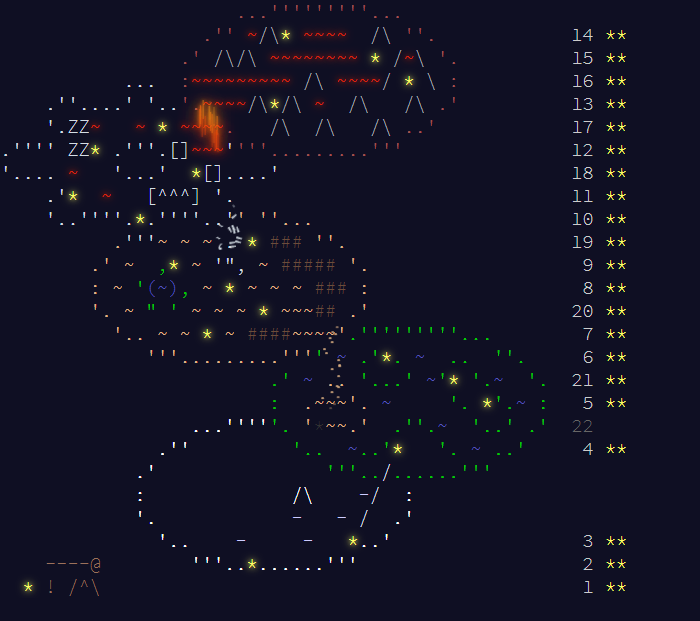
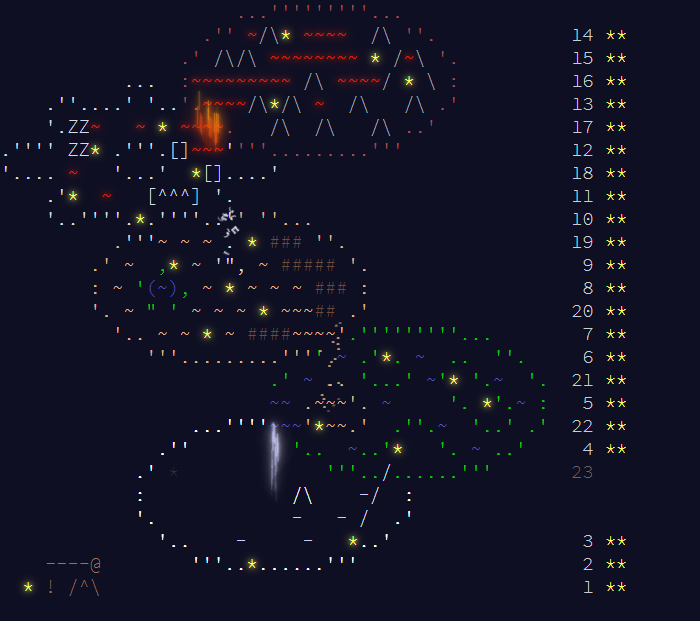
Day 22

diff --git a/2023/main_page/aoc/index_22.html b/2023/main_page/aoc/index_22.html
@@ -1,0 +1,178 @@
+<!DOCTYPE html>
+<html lang="en-us">
+<head>
+<meta charset="utf-8"/>
+<title>Advent of Code 2023</title>
+<!--[if lt IE 9]><script src="html5.js"></script><![endif]-->
+<link href='SourceCodePro.css' rel='stylesheet' type='text/css'>
+<link rel="stylesheet" type="text/css" href="style.css"/>
+<link rel="stylesheet alternate" type="text/css" href="highcontrast.css?0" title="High Contrast"/>
+<link rel="shortcut icon" href="favicon.png"/>
+</head><body>
+<main>
+<style>
+.calendar .calendar-color-k { color:#6b4d3b; }
+.calendar .calendar-color-g { color:#00cc00; }
+.calendar .calendar-color-v { color:#df2308; text-shadow:0 0 5px #df2308, 0 0 10px #df2308; }
+.calendar .calendar-color-w { color:#ffffff; }
+.calendar .islefall {
+  position: relative;
+}
+.calendar .islefall > span {
+  position: absolute;
+  animation: anim-calendar-islefall 3s linear infinite;
+  display: inline-block;
+  color: #ccccff;
+  text-shadow: 0 0 3px #ccccff, 0 0 5px #ccccff, 0 0 10px #ffffff, 0 0 15px #ffffff;
+  pointer-events: none;
+}
+@keyframes anim-calendar-islefall {
+    0% { transform: translateY(0);   opacity:0.0; }
+   10% {                             opacity:0.8; }
+  100% { transform: translateY(6ch); opacity:0.0; }
+}
+
+.calendar .gearfall {
+  position: relative;
+}
+.calendar .gearfall > span {
+  position: absolute;
+  animation: anim-calendar-gearfall-b 3s linear infinite;
+  display: inline-block;
+  color: #d4dde4;
+  pointer-events: none;
+}
+.calendar .gearfall > span.gearfall-whozit, .calendar .gearfall > span.gearfall-whatzit, .calendar .gearfall > span.gearfall-thingamabob {
+  animation-name: anim-calendar-gearfall-t;
+}
+@keyframes anim-calendar-gearfall-b {
+    0% { transform: translateY(0)   rotate(0)     translateY(-.5ch); opacity:0.0; }
+   20% {                                                             opacity:1.0; }
+   80% {                                                             opacity:1.0; }
+  100% { transform: translateY(4ch) rotate(2turn) translateY(-.5ch); opacity:0.0; }
+}
+@keyframes anim-calendar-gearfall-t {
+    0% { transform: translateY(0)   rotate(0)     translateY(.5ch); opacity:0.0; }
+   10% {                                                            opacity:1.0; }
+   90% {                                                            opacity:1.0; }
+  100% { transform: translateY(4ch) rotate(2turn) translateY(.5ch); opacity:0.0; }
+}
+
+.calendar .calendar-color-y { color:#ffff66; text-shadow:0 0 5px #ffff66, 0 0 10px #ffff66; }
+.calendar .calendar-color-b { color:#5555bb; }
+.calendar .sandfall {
+  position: relative;
+}
+.calendar .sandfall > span {
+  position: absolute;
+  animation: anim-calendar-sandfall 3s linear infinite;
+  display: inline-block;
+  color: #e3b585;
+  pointer-events: none;
+}
+@keyframes anim-calendar-sandfall {
+    0% { transform: translateY(0);     opacity:0.0; }
+   10% {                               opacity:0.8; }
+   90% {                               opacity:0.8; }
+  100% { transform: translateY(7.5ch); opacity:0.0; }
+}
+
+.calendar .calendar-color-m { color:#d4dde4; }
+.calendar .calendar-color-s { color:#e3b585; }
+.calendar .calendar-color-i { color:#a25151; }
+.calendar .lavafall {
+  position: relative;
+}
+.calendar .lavafall > span {
+  position: absolute;
+  animation: anim-calendar-lavafall 3s linear infinite;
+  display: inline-block;
+  pointer-events: none;
+}
+@keyframes anim-calendar-lavafall {
+    0% { transform: translateY(0);   opacity:0.0; color:#faa718; text-shadow: 0 0 3px #faa718, 0 0 5px #faa718, 0 0 10px #faa718, 0 0 15px #faa718, 0 0 20px #faa718; }
+   20% {                             opacity:0.8; }
+   80% {                             opacity:0.8; }
+  100% { transform: translateY(3ch); opacity:0.0; color:#df2308; text-shadow: 0 0 3px #df2308, 0 0 5px #df2308, 0 0 10px #df2308, 0 0 15px #df2308, 0 0 20px #df2308; }
+}
+
+.calendar .calendar-color-l { color:#ccccff; }
+.calendar .calendar-color-n { color:#9b715b; }
+.calendar .calendar-color-a { color:#a5a8af; }
+</style>
+<pre class="calendar"><a aria-label="Day 14, two stars" href="day_14.html" class="calendar-day14 calendar-verycomplete">                     <span class="calendar-color-i">...'''''''''...</span>                    
+                  <span class="calendar-color-i">.''</span> <span class="calendar-color-v">~</span><span class="calendar-color-a">/\</span><span class="calendar-color-y">*</span> <span class="calendar-color-v">~~~~</span>  <span class="calendar-color-a">/\</span> <span class="calendar-color-i">''.</span>            <span class="calendar-day">14</span> <span class="calendar-mark-complete">*</span><span class="calendar-mark-verycomplete">*</span></a>
+<a aria-label="Day 15, two stars" href="day_15.html" class="calendar-day15 calendar-verycomplete">                <span class="calendar-color-i">.'</span> <span class="calendar-color-a">/\/\</span> <span class="calendar-color-v">~~~~~~~~</span> <span class="calendar-color-y">*</span> <span class="calendar-color-a">/</span><span class="calendar-color-v">~</span><span class="calendar-color-a">\</span> <span class="calendar-color-i">'.</span>          <span class="calendar-day">15</span> <span class="calendar-mark-complete">*</span><span class="calendar-mark-verycomplete">*</span></a>
+<a aria-label="Day 16, two stars" href="day_16.html" class="calendar-day16 calendar-verycomplete">           <span class="calendar-color-m">...</span>  <span class="calendar-color-i">:</span><span class="calendar-color-v">~~~~~~~~~</span> <span class="calendar-color-a">/\</span> <span class="calendar-color-v">~~~~</span><span class="calendar-color-a">/</span> <span class="calendar-color-y">*</span> <span class="calendar-color-a">\</span> <span class="calendar-color-i">:</span>          <span class="calendar-day">16</span> <span class="calendar-mark-complete">*</span><span class="calendar-mark-verycomplete">*</span></a>
+<a aria-label="Day 13, two stars" href="day_13.html" class="calendar-day13 calendar-verycomplete">    <span class="calendar-color-m">.''....'</span> <span class="calendar-color-m">'..</span><span class="calendar-color-i">'.<span class="lavafall" style=""><span style="left:2.4px;top:2.4px;animation-delay:-1.47s">|</span><span style="left:-5.7px;top:-5.7px;animation-delay:-2.08s">|</span><span style="left:3.7px;top:3.7px;animation-delay:-1.57s">|</span><span style="left:9.1px;top:9.1px;animation-delay:-0.43s">|</span><span style="left:8.1px;top:8.1px;animation-delay:-1.41s">|</span><span style="left:10.0px;top:10.0px;animation-delay:-2.88s">|</span><span style="left:0.8px;top:0.8px;animation-delay:-0.79s">|</span><span style="left:10.8px;top:10.8px;animation-delay:-0.45s">|</span><span style="left:8.5px;top:8.5px;animation-delay:-2.31s">|</span><span style="left:-8.2px;top:-8.2px;animation-delay:-0.13s">|</span><span style="left:1.1px;top:1.1px;animation-delay:-0.09s">|</span><span style="left:7.2px;top:7.2px;animation-delay:-0.61s">|</span><span style="left:-0.9px;top:-0.9px;animation-delay:-2.53s">|</span><span style="left:-3.6px;top:-3.6px;animation-delay:-2.48s">|</span><span style="left:-9.8px;top:-9.8px;animation-delay:-1.56s">|</span><span style="left:2.6px;top:2.6px;animation-delay:-2.45s">|</span><span style="left:1.1px;top:1.1px;animation-delay:-0.05s">|</span><span style="left:-6.8px;top:-6.8px;animation-delay:-1.92s">|</span><span style="left:9.1px;top:9.1px;animation-delay:-1.42s">|</span><span style="left:8.1px;top:8.1px;animation-delay:-1.73s">|</span></span></span><span class="calendar-color-v">~~~~</span><span class="calendar-color-a">/\</span><span class="calendar-color-y">*</span><span class="calendar-color-a">/\</span> <span class="calendar-color-v">~</span>  <span class="calendar-color-a">/\</span>   <span class="calendar-color-a">/\</span> <span class="calendar-color-i">.'</span>          <span class="calendar-day">13</span> <span class="calendar-mark-complete">*</span><span class="calendar-mark-verycomplete">*</span></a>
+<a aria-label="Day 17, two stars" href="day_17.html" class="calendar-day17 calendar-verycomplete">    <span class="calendar-color-m">'.ZZ</span><span class="calendar-color-v">~</span>   <span class="calendar-color-v">~</span> <span class="calendar-color-y">*</span> <span class="calendar-color-v">~~~~</span><span class="calendar-color-i">.</span>   <span class="calendar-color-a">/\</span>  <span class="calendar-color-a">/\</span>   <span class="calendar-color-a">/\</span> <span class="calendar-color-i">..'</span>            <span class="calendar-day">17</span> <span class="calendar-mark-complete">*</span><span class="calendar-mark-verycomplete">*</span></a>
+<a aria-label="Day 12, two stars" href="day_12.html" class="calendar-day12 calendar-verycomplete"><span class="calendar-color-m">.''''</span> <span class="calendar-color-m">ZZ</span><span class="calendar-color-y">*</span> <span class="calendar-color-m">.'''.[]</span><span class="calendar-color-v">~~~</span><span class="calendar-color-m">'</span><span class="calendar-color-i">'''.........'''</span>               <span class="calendar-day">12</span> <span class="calendar-mark-complete">*</span><span class="calendar-mark-verycomplete">*</span></a>
+<a aria-label="Day 18, two stars" href="day_18.html" class="calendar-day18 calendar-verycomplete"><span class="calendar-color-m">'....</span> <span class="calendar-color-v">~</span>   <span class="calendar-color-m">'...'</span>  <span class="calendar-color-y">*</span><span class="calendar-color-m">[]....'</span>                          <span class="calendar-day">18</span> <span class="calendar-mark-complete">*</span><span class="calendar-mark-verycomplete">*</span></a>
+<a aria-label="Day 11, two stars" href="day_11.html" class="calendar-day11 calendar-verycomplete">    <span class="calendar-color-m">.'</span><span class="calendar-color-y">*</span>  <span class="calendar-color-v">~</span>   <span class="calendar-color-m">[^^^]</span> <span class="calendar-color-m">'.</span>                              <span class="calendar-day">11</span> <span class="calendar-mark-complete">*</span><span class="calendar-mark-verycomplete">*</span></a>
+<a aria-label="Day 10, two stars" href="day_10.html" class="calendar-day10 calendar-verycomplete">    <span class="calendar-color-m">'..''''.</span><span class="calendar-color-y">*</span><span class="calendar-color-m">.''''.<span class="gearfall" style=""><span class="gearfall-gizmo" style="left:4.2px;top:-4.2px;animation-delay:-0.13s">,</span><span class="gearfall-gizmo" style="left:13.0px;top:-13.0px;animation-delay:-0.65s">,</span><span class="gearfall-thingamabob" style="left:17.1px;top:-17.1px;animation-delay:-1.47s">'</span><span class="gearfall-thingamabob" style="left:6.3px;top:-6.3px;animation-delay:-2.49s">'</span><span class="gearfall-thingamabob" style="left:7.8px;top:-7.8px;animation-delay:-3.00s">'</span><span class="gearfall-gizmo" style="left:14.7px;top:-14.7px;animation-delay:-0.28s">,</span><span class="gearfall-whatzit" style="left:7.8px;top:-7.8px;animation-delay:-0.22s">&quot;</span><span class="gearfall-gizmo" style="left:8.9px;top:-8.9px;animation-delay:-1.34s">,</span><span class="gearfall-whatzit" style="left:17.9px;top:-17.9px;animation-delay:-1.83s">&quot;</span><span class="gearfall-whozit" style="left:10.7px;top:-10.7px;animation-delay:-1.31s">`</span></span>.'</span><span class="calendar-color-s">'</span> <span class="calendar-color-s">''...</span>                       <span class="calendar-day">10</span> <span class="calendar-mark-complete">*</span><span class="calendar-mark-verycomplete">*</span></a>
+<a aria-label="Day 19, two stars" href="day_19.html" class="calendar-day19 calendar-verycomplete">          <span class="calendar-color-s">.</span><span class="calendar-color-m">'''</span><span class="calendar-color-s">~</span> <span class="calendar-color-s">~</span> <span class="calendar-color-s">~</span> <span class="calendar-color-m">.</span> <span class="calendar-color-y">*</span> <span class="calendar-color-k">###</span> <span class="calendar-color-s">''.</span>                    <span class="calendar-day">19</span> <span class="calendar-mark-complete">*</span><span class="calendar-mark-verycomplete">*</span></a>
+<a aria-label="Day 9, two stars" href="day_09.html" class="calendar-day9 calendar-verycomplete">        <span class="calendar-color-s">.'</span> <span class="calendar-color-s">~</span>  <span class="calendar-color-g">,</span><span class="calendar-color-y">*</span> <span class="calendar-color-s">~</span> <span class="calendar-color-m">'&quot;,</span> <span class="calendar-color-s">~</span> <span class="calendar-color-k">#####</span> <span class="calendar-color-s">'.</span>                  <span class="calendar-day"> 9</span> <span class="calendar-mark-complete">*</span><span class="calendar-mark-verycomplete">*</span></a>
+<a aria-label="Day 8, two stars" href="day_08.html" class="calendar-day8 calendar-verycomplete">        <span class="calendar-color-s">:</span> <span class="calendar-color-s">~</span> <span class="calendar-color-g">'</span><span class="calendar-color-b">(~)</span><span class="calendar-color-g">,</span> <span class="calendar-color-s">~</span> <span class="calendar-color-y">*</span> <span class="calendar-color-s">~</span> <span class="calendar-color-s">~</span> <span class="calendar-color-s">~</span> <span class="calendar-color-k">###</span> <span class="calendar-color-s">:</span>                  <span class="calendar-day"> 8</span> <span class="calendar-mark-complete">*</span><span class="calendar-mark-verycomplete">*</span></a>
+<a aria-label="Day 20, two stars" href="day_20.html" class="calendar-day20 calendar-verycomplete">        <span class="calendar-color-s">'.</span> <span class="calendar-color-s">~</span> <span class="calendar-color-g">&quot;</span> <span class="calendar-color-g">'</span> <span class="calendar-color-s">~</span> <span class="calendar-color-s">~</span> <span class="calendar-color-s">~</span> <span class="calendar-color-y">*</span> <span class="calendar-color-s">~~~</span><span class="calendar-color-k">##</span> <span class="calendar-color-s">.'</span>                  <span class="calendar-day">20</span> <span class="calendar-mark-complete">*</span><span class="calendar-mark-verycomplete">*</span></a>
+<a aria-label="Day 7, two stars" href="day_07.html" class="calendar-day7 calendar-verycomplete">          <span class="calendar-color-s">'..</span> <span class="calendar-color-s">~</span> <span class="calendar-color-s">~</span> <span class="calendar-color-y">*</span> <span class="calendar-color-s">~</span> <span class="calendar-color-k">####</span><span class="calendar-color-s">~~<span class="sandfall" style=""><span style="left:14.2px;top:-14.2px;animation-delay:-2.68s">.</span><span style="left:18.6px;top:-18.6px;animation-delay:-0.61s">.</span><span style="left:9.1px;top:-9.1px;animation-delay:-2.63s">.</span><span style="left:17.0px;top:-17.0px;animation-delay:-2.91s">.</span><span style="left:4.7px;top:-4.7px;animation-delay:-2.08s">.</span><span style="left:13.8px;top:-13.8px;animation-delay:-0.37s">.</span><span style="left:12.2px;top:-12.2px;animation-delay:-1.04s">.</span><span style="left:9.9px;top:-9.9px;animation-delay:-1.74s">.</span><span style="left:14.7px;top:-14.7px;animation-delay:-2.63s">.</span><span style="left:18.9px;top:-18.9px;animation-delay:-0.38s">.</span><span style="left:1.1px;top:-1.1px;animation-delay:-0.20s">.</span><span style="left:15.8px;top:-15.8px;animation-delay:-1.04s">.</span><span style="left:5.2px;top:-5.2px;animation-delay:-2.39s">.</span><span style="left:10.1px;top:-10.1px;animation-delay:-1.08s">.</span><span style="left:19.4px;top:-19.4px;animation-delay:-2.60s">.</span><span style="left:21.0px;top:-21.0px;animation-delay:-2.93s">.</span><span style="left:19.3px;top:-19.3px;animation-delay:-2.04s">.</span><span style="left:17.1px;top:-17.1px;animation-delay:-2.86s">.</span><span style="left:19.5px;top:-19.5px;animation-delay:-0.83s">.</span><span style="left:2.9px;top:-2.9px;animation-delay:-1.85s">.</span></span>~~'</span><span class="calendar-color-g">.'''''''''...</span>       <span class="calendar-day"> 7</span> <span class="calendar-mark-complete">*</span><span class="calendar-mark-verycomplete">*</span></a>
+<a aria-label="Day 6, two stars" href="day_06.html" class="calendar-day6 calendar-verycomplete">             <span class="calendar-color-s">'''.........'''</span><span class="calendar-color-g">'</span> <span class="calendar-color-b">~</span> <span class="calendar-color-g">.'</span><span class="calendar-color-y">*</span><span class="calendar-color-g">.</span> <span class="calendar-color-b">~</span>  <span class="calendar-color-g">..</span>  <span class="calendar-color-g">''.</span>    <span class="calendar-day"> 6</span> <span class="calendar-mark-complete">*</span><span class="calendar-mark-verycomplete">*</span></a>
+<a aria-label="Day 21, two stars" href="day_21.html" class="calendar-day21 calendar-verycomplete">                        <span class="calendar-color-g">.'</span> <span class="calendar-color-b">~</span> <span class="calendar-color-s">..</span> <span class="calendar-color-g">'...'</span> <span class="calendar-color-b">~</span><span class="calendar-color-g">'</span><span class="calendar-color-y">*</span> <span class="calendar-color-g">'.</span><span class="calendar-color-b">~</span>  <span class="calendar-color-g">'.</span>  <span class="calendar-day">21</span> <span class="calendar-mark-complete">*</span><span class="calendar-mark-verycomplete">*</span></a>
+<a aria-label="Day 5, two stars" href="day_05.html" class="calendar-day5 calendar-verycomplete">                        <span class="calendar-color-b">~~</span> <span class="calendar-color-s">.~~~'.</span> <span class="calendar-color-b">~</span>     <span class="calendar-color-g">'.</span> <span class="calendar-color-y">*</span><span class="calendar-color-g">'.</span><span class="calendar-color-b">~</span> <span class="calendar-color-g">:</span>  <span class="calendar-day"> 5</span> <span class="calendar-mark-complete">*</span><span class="calendar-mark-verycomplete">*</span></a>
+<a aria-label="Day 22, two stars" href="day_22.html" class="calendar-day22 calendar-verycomplete">                 <span class="calendar-color-w">...''''<span class="islefall" style=""><span style="left:-0.0px;top:-1.9px;animation-delay:-0.15s">|</span><span style="left:-1.6px;top:1.3px;animation-delay:-0.30s">|</span><span style="left:3.1px;top:-0.1px;animation-delay:-0.45s">|</span><span style="left:1.4px;top:0.9px;animation-delay:-0.60s">|</span><span style="left:2.5px;top:-2.5px;animation-delay:-0.75s">|</span><span style="left:3.9px;top:-1.0px;animation-delay:-0.90s">|</span><span style="left:0.9px;top:-0.8px;animation-delay:-1.05s">|</span><span style="left:-2.4px;top:-0.5px;animation-delay:-1.20s">|</span><span style="left:2.0px;top:-1.1px;animation-delay:-1.35s">|</span><span style="left:1.1px;top:-0.2px;animation-delay:-1.50s">|</span><span style="left:-2.0px;top:-0.9px;animation-delay:-1.65s">|</span><span style="left:-2.5px;top:2.3px;animation-delay:-1.80s">|</span><span style="left:-2.7px;top:3.0px;animation-delay:-1.95s">|</span><span style="left:1.3px;top:-0.3px;animation-delay:-2.10s">|</span><span style="left:0.6px;top:-0.7px;animation-delay:-2.25s">|</span><span style="left:1.9px;top:4.0px;animation-delay:-2.40s">|</span><span style="left:-2.9px;top:-2.4px;animation-delay:-2.55s">|</span><span style="left:2.2px;top:0.6px;animation-delay:-2.70s">|</span><span style="left:-1.9px;top:2.5px;animation-delay:-2.85s">|</span><span style="left:-1.1px;top:-0.6px;animation-delay:-3.00s">|</span></span></span><span class="calendar-color-b">~~~</span><span class="calendar-color-s">'</span><span class="calendar-color-y">*</span><span class="calendar-color-s">~~.'</span>  <span class="calendar-color-g">.''.</span><span class="calendar-color-b">~</span>  <span class="calendar-color-g">'..'</span> <span class="calendar-color-g">.'</span>  <span class="calendar-day">22</span> <span class="calendar-mark-complete">*</span><span class="calendar-mark-verycomplete">*</span></a>
+<a aria-label="Day 4, two stars" href="day_04.html" class="calendar-day4 calendar-verycomplete">              <span class="calendar-color-w">.''</span>         <span class="calendar-color-g">'..</span>  <span class="calendar-color-b">~</span><span class="calendar-color-g">..'</span><span class="calendar-color-y">*</span>   <span class="calendar-color-g">'.</span> <span class="calendar-color-b">~</span> <span class="calendar-color-g">..'</span>    <span class="calendar-day"> 4</span> <span class="calendar-mark-complete">*</span><span class="calendar-mark-verycomplete">*</span></a>
+<span aria-hidden="true" class="calendar-day23">            <span class="calendar-color-w">.'</span> *             <span class="calendar-color-g">'''..</span><span class="calendar-color-m">/</span><span class="calendar-color-g">......'''</span>       <span class="calendar-day">23</span><span id="calendar-countdown"></span><script>
+(function(){
+var countdown = document.getElementById("calendar-countdown");
+if (!countdown) return;
+var server_eta = 82184;
+var key = "2023-23-"+server_eta;
+var now = Math.floor(new Date().getTime()/1000);
+var target = server_eta + now;
+if (sessionStorage) {
+  // if you navigate away and hit the back button, this makes sure the countdown doesn't start from the wrong time
+  var prev_target = sessionStorage.getItem("calendar-target");
+  try { prev_target = JSON.parse(prev_target); } catch(e){}
+  if (prev_target && typeof prev_target === 'object' && prev_target.key === key) {
+    target = prev_target.target;
+  } else {
+    sessionStorage.setItem("calendar-target", JSON.stringify({key:key, target:target+1}));
+  }
+}
+
+var interval = null;
+function update_countdown() {
+  var remaining = Math.ceil(target - new Date().getTime()/1000);
+  if (remaining <= 0) {
+    clearInterval(interval);
+    interval = null;
+    countdown.textContent = "";
+
+    var a = document.createElement("a");
+    a[String.fromCharCode(104,114,101,102)] = "/2023" + String.fromCharCode(47,100,97,121,47) + "23";
+    a.className = "calendar-day23 calendar-day-new";
+    var span = countdown.parentNode;
+    while (span.firstChild) {
+      a.appendChild(span.firstChild);
+    }
+    a.appendChild(document.createTextNode("   "));
+    span.parentNode.insertBefore(a, span);
+    span.parentNode.removeChild(span);
+    countdown.parentNode.removeChild(countdown);
+  } else {
+    var hours = Math.floor(remaining/60/60);
+    remaining -= hours * 60 * 60;
+    var minutes = Math.floor(remaining/60);
+    remaining -= minutes * 60;
+    var seconds = remaining;
+    countdown.textContent = (hours < 10 ? "0" : "") + hours + ":" + (minutes < 10 ? "0" : "") + minutes + ":" + (seconds < 10 ? "0" : "") + seconds;
+  }
+}
+})();
+</script></span>
+<span aria-hidden="true" class="">            <span class="calendar-color-w">:</span>             <span class="calendar-color-w">/\</span>    <span class="calendar-color-l">-</span><span class="calendar-color-m">/</span>  <span class="calendar-color-w">:</span>            </span>
+<span aria-hidden="true" class="">            <span class="calendar-color-w">'.</span>            <span class="calendar-color-l">-</span>   <span class="calendar-color-l">-</span> <span class="calendar-color-m">/</span>  <span class="calendar-color-w">.'</span>            </span>
+<a aria-label="Day 3, two stars" href="day_03.html" class="calendar-day3 calendar-verycomplete">              <span class="calendar-color-w">'..</span>    <span class="calendar-color-l">-</span>     <span class="calendar-color-l">-</span>   <span class="calendar-color-y">*</span><span class="calendar-color-w">..'</span>                <span class="calendar-day"> 3</span> <span class="calendar-mark-complete">*</span><span class="calendar-mark-verycomplete">*</span></a>
+<a aria-label="Day 2, two stars" href="day_02.html" class="calendar-day2 calendar-verycomplete">    <span class="calendar-color-n">----@</span>        <span class="calendar-color-w">'''..</span><span class="calendar-color-y">*</span><span class="calendar-color-w">......'''</span>                   <span class="calendar-day"> 2</span> <span class="calendar-mark-complete">*</span><span class="calendar-mark-verycomplete">*</span></a>
+<a aria-label="Day 1, two stars" href="day_01.html" class="calendar-day1 calendar-verycomplete">  <span class="calendar-color-y">*</span> <span class="calendar-color-n">!</span> <span class="calendar-color-n">/^\</span>                                          <span class="calendar-day"> 1</span> <span class="calendar-mark-complete">*</span><span class="calendar-mark-verycomplete">*</span></a>
+</pre>
+</main></body></html>
